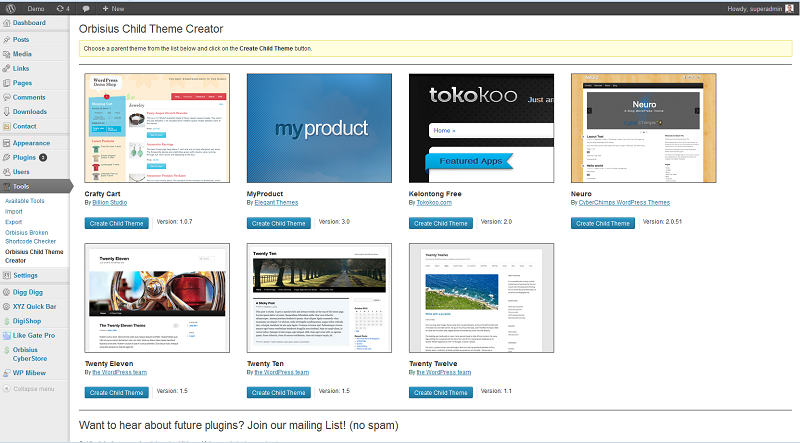
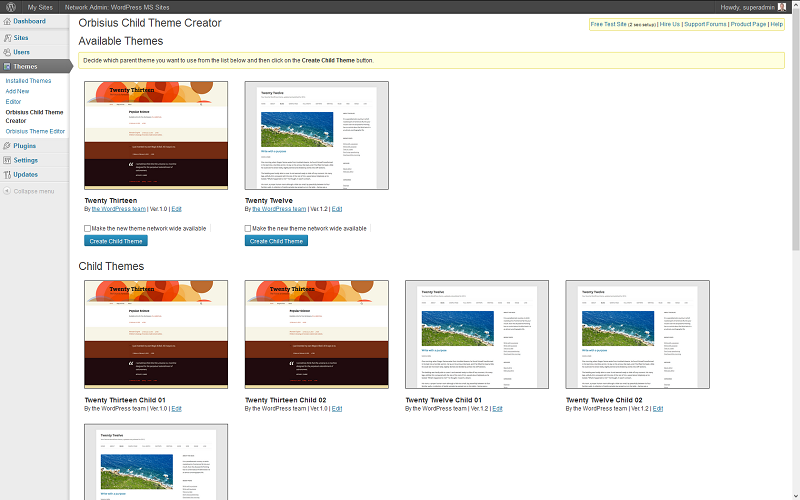
updated links so it points to forums and product page
git-svn-id: https://plugins.svn.wordpress.org/orbisius-child-theme-creator/trunk@793328 b8457f37-d9ea-0310-8a92-e5e31aec5664

diff --git a/orbisius-child-theme-creator.php b/orbisius-child-theme-creator.php
@@ -386,7 +386,6 @@ function orbisius_child_theme_creator_tools_action() {
     <div class="wrap orbisius_child_theme_creator_container">
         <h2 style="display:inline;">Orbisius Child Theme Creator</h2>
         <div style="float: right;padding: 3px;" class="updated">
-                Links:
                 <a href="http://qsandbox.com/?utm_source=orbisius-child-theme-creator&utm_medium=action_screen&utm_campaign=product"
                      target="_blank" title="Opens in new tab/window. qSandbox is a FREE service that allows you to setup a test/sandbox WordPress site in 2 seconds. No technical knowledge is required.
                      Test themes and plugins before you actually put them on your site">Free Test Site</a> <small>(2 sec setup)</small>
@@ -394,7 +393,11 @@ function orbisius_child_theme_creator_tools_action() {
                 | <a href="http://orbisius.com/page/free-quote/?utm_source=child-theme-creator&utm_medium=plugin-links&utm_campaign=plugin-update"
                      title="If you want a custom web/mobile app or a plugin developed contact us. This opens in a new window/tab">Hire Us</a>
 
-                | <a href="http://club.orbisius.com/products/wordpress-plugins/orbisius-child-theme-creator/?utm_source=orbisius-child-theme-creator&utm_medium=action_screen&utm_campaign=product" target="_blank" title="[new window]">Help</a>
+                | <a href="http://club.orbisius.com/forums/forum/community-support-forum/wordpress-plugins/orbisius-child-theme-creator/?utm_source=orbisius-child-theme-editor&utm_medium=action_screen&utm_campaign=product" target="_blank" title="[new window]">Support Forums</a>
+
+                | <a href="http://club.orbisius.com/products/wordpress-plugins/orbisius-child-theme-creator/?utm_source=orbisius-child-theme-editor&utm_medium=action_screen&utm_campaign=product" target="_blank" title="[new window]">Product Page</a>
+
+                | <a href="#help" title="">Help</a>
         </div>
         
     <?php echo $msg; ?>
@@ -547,7 +550,7 @@ function orbisius_child_theme_creator_tools_action() {
 
         <a name="help"></a>
         <h2>Support &amp; Premium Plugins</h2>
-        <div class="updated0">
+        <div class="updated">
             <p>
                 The support is handled on our Club Orbisius site: <a href="http://club.orbisius.com/forums/forum/community-support-forum/wordpress-plugins/orbisius-child-theme-creator/" target="_blank" title="[new window]">http://club.orbisius.com/</a>.
                 Please do NOT use the WordPress forums or other places to seek support.
@@ -1054,7 +1057,6 @@ function orbisius_ctc_theme_editor() {
     <div class="wrap orbisius_child_theme_creator_container orbisius_ctc_theme_editor_container">
         <h2 style="display:inline;">Orbisius Theme Editor <small>(Part of <a href='<?php echo $plugin_data['url'];?>' target="_blank">Orbisius Child Theme Creator</a>)</small></h2>
         <div style="float: right;padding: 3px;" class="updated">
-                Links:
                 <a href="http://qsandbox.com/?utm_source=orbisius-child-theme-editor&utm_medium=action_screen&utm_campaign=product"
                      target="_blank" title="Opens in new tab/window. qSandbox is a FREE service that allows you to setup a test/sandbox WordPress site in 2 seconds. No technical knowledge is required.
                      Test themes and plugins before you actually put them on your site">Free Test Site</a> <small>(2 sec setup)</small>
@@ -1062,7 +1064,9 @@ function orbisius_ctc_theme_editor() {
                 | <a href="http://orbisius.com/page/free-quote/?utm_source=child-theme-editor&utm_medium=plugin-links&utm_campaign=plugin-update"
                      title="If you want a custom web/mobile app or a plugin developed contact us. This opens in a new window/tab">Hire Us</a>
 
-                | <a href="http://club.orbisius.com/products/wordpress-plugins/orbisius-child-theme-creator/?utm_source=orbisius-child-theme-editor&utm_medium=action_screen&utm_campaign=product" target="_blank" title="[new window]">Help</a>
+                | <a href="http://club.orbisius.com/forums/forum/community-support-forum/wordpress-plugins/orbisius-child-theme-creator/?utm_source=orbisius-child-theme-editor&utm_medium=action_screen&utm_campaign=product" target="_blank" title="[new window]">Support Forums</a>
+                
+                | <a href="http://club.orbisius.com/products/wordpress-plugins/orbisius-child-theme-creator/?utm_source=orbisius-child-theme-editor&utm_medium=action_screen&utm_campaign=product" target="_blank" title="[new window]">Product Page</a>
         </div>
 
         <div class="updated"><p><?php echo $msg; ?></p></div>
